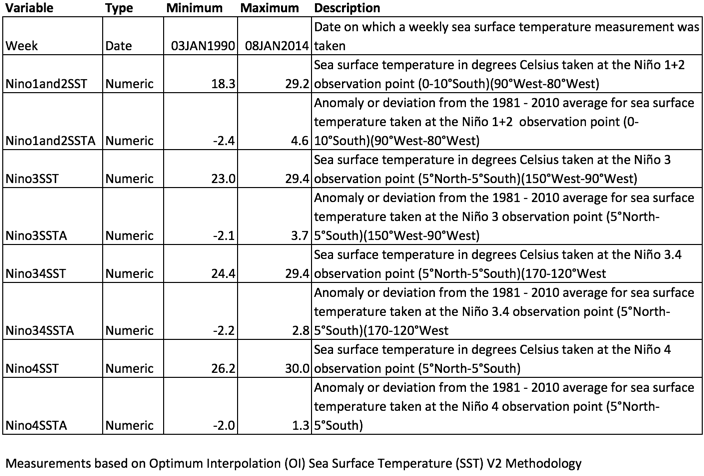
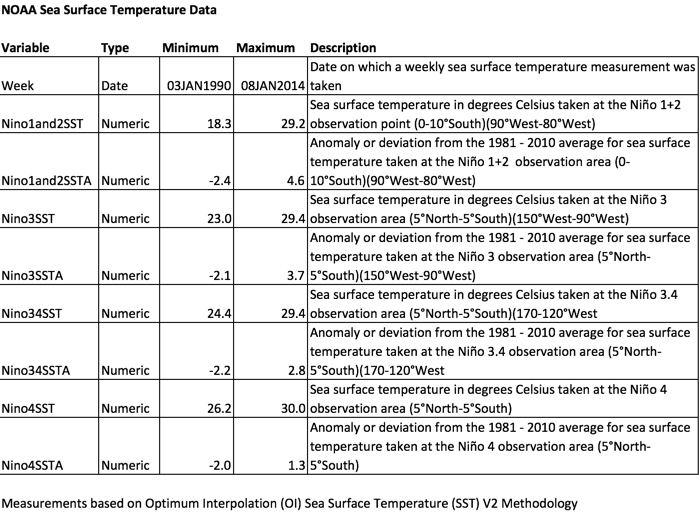
minor edits to article, adjust codebook

diff --git a/markdown/cleaningData-week2Q5.md b/markdown/cleaningData-week2Q5.md
@@ -1,6 +1,6 @@
 # The Definitive Guide to Solving Week 2 Question 5
 
-Question 5 in the week 2 quiz for *Getting and Cleaning Data* is deceptively simple: *report the sum of the fourth of the nine columns.* To answer this question correctly, one **MUST**  view the file before writing R code. As noted in [Strategy for Reading Files & APIs / Quiz 2](http://bit.ly/2e4L5oF), one can download the [Atom](http://atom.io) editor for free and use it to view the file.
+Question 5 in the week 2 quiz for *Getting and Cleaning Data* in the Johns Hopkins Data Science Specialization on Coursera is deceptively simple: *report the sum of the fourth of the nine columns.* To answer this question correctly, one **MUST**  view the file before writing R code. As noted in [Strategy for Reading Files & APIs / Quiz 2](http://bit.ly/2e4L5oF), one can download the [Atom](http://atom.io) editor for free and use it to view the file.
 
 <img src="./images/cleaningData-week2q5-01.png">
 
@@ -44,6 +44,8 @@ As of October 14, 2017, the data from the NOAA has 1,449 observations, the most 
 
 <img src="./images/cleaningData-week2q5-06.png">
 
+**[PRO TIP]** Use the `summary()` function to compare the data set you load into R against the values listed in the codebook below to confirm that the data file has been read correctly.
+
 # Appendix
 
 The data set is maintained by the United States National Oceanographic and Atmospheric Administration. SST is an abbreviation of *sea surface temperature*. SSTA is an abbreviation of *sea surface temperature anomaly*. *Anomaly* is calculated as the deviation from a 30 year average. for the *Sea Surface Temperature Index* data set, the mean includes data collected within the El Niño Southern Oscillation between 1981 and 2010.
@@ -58,6 +60,7 @@ The El Niño Southern Oscillation is a combined atmospheric and ocean system con
 
 <img src="./images/cleaningData-week2q5-08.png">
 
+**[PRO TIP]** Bookmark this article because you can use the codebook illustrated here as a template for your final project in *Getting and Cleaning Data*.  Ironically, most of the data sets on the NOAA website have no codebooks, or they are very difficult to find and poorly written, as students will discover during the *Reproducible Research* course within the Data Science Specialization.
 
 # References
 
